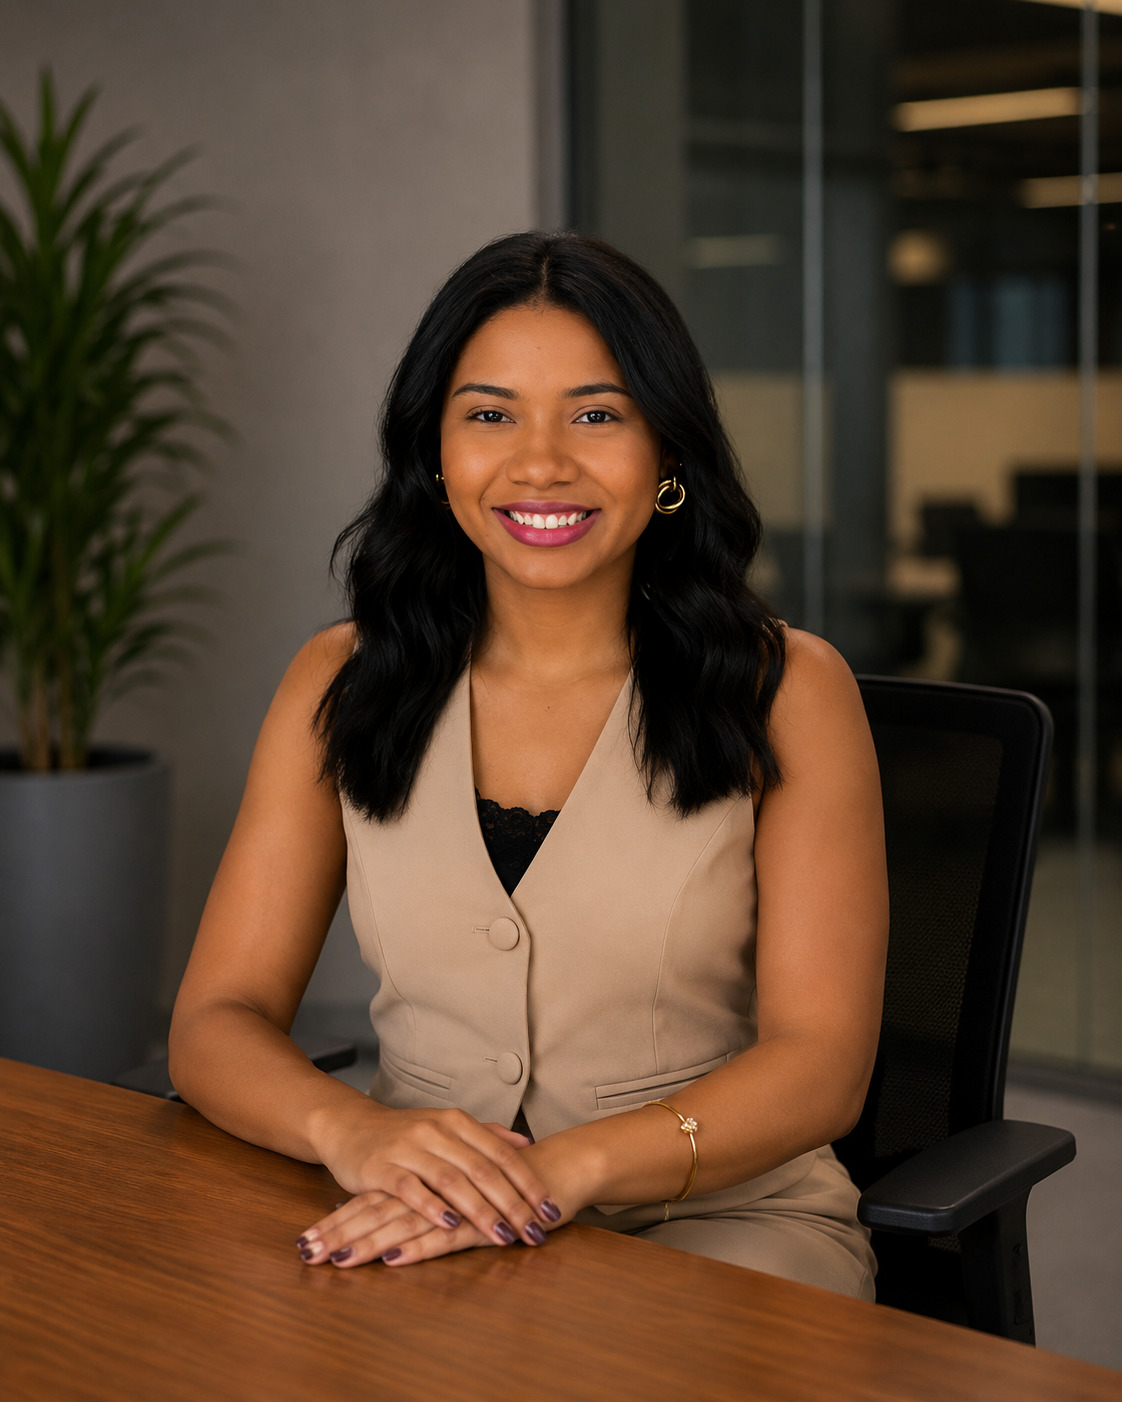
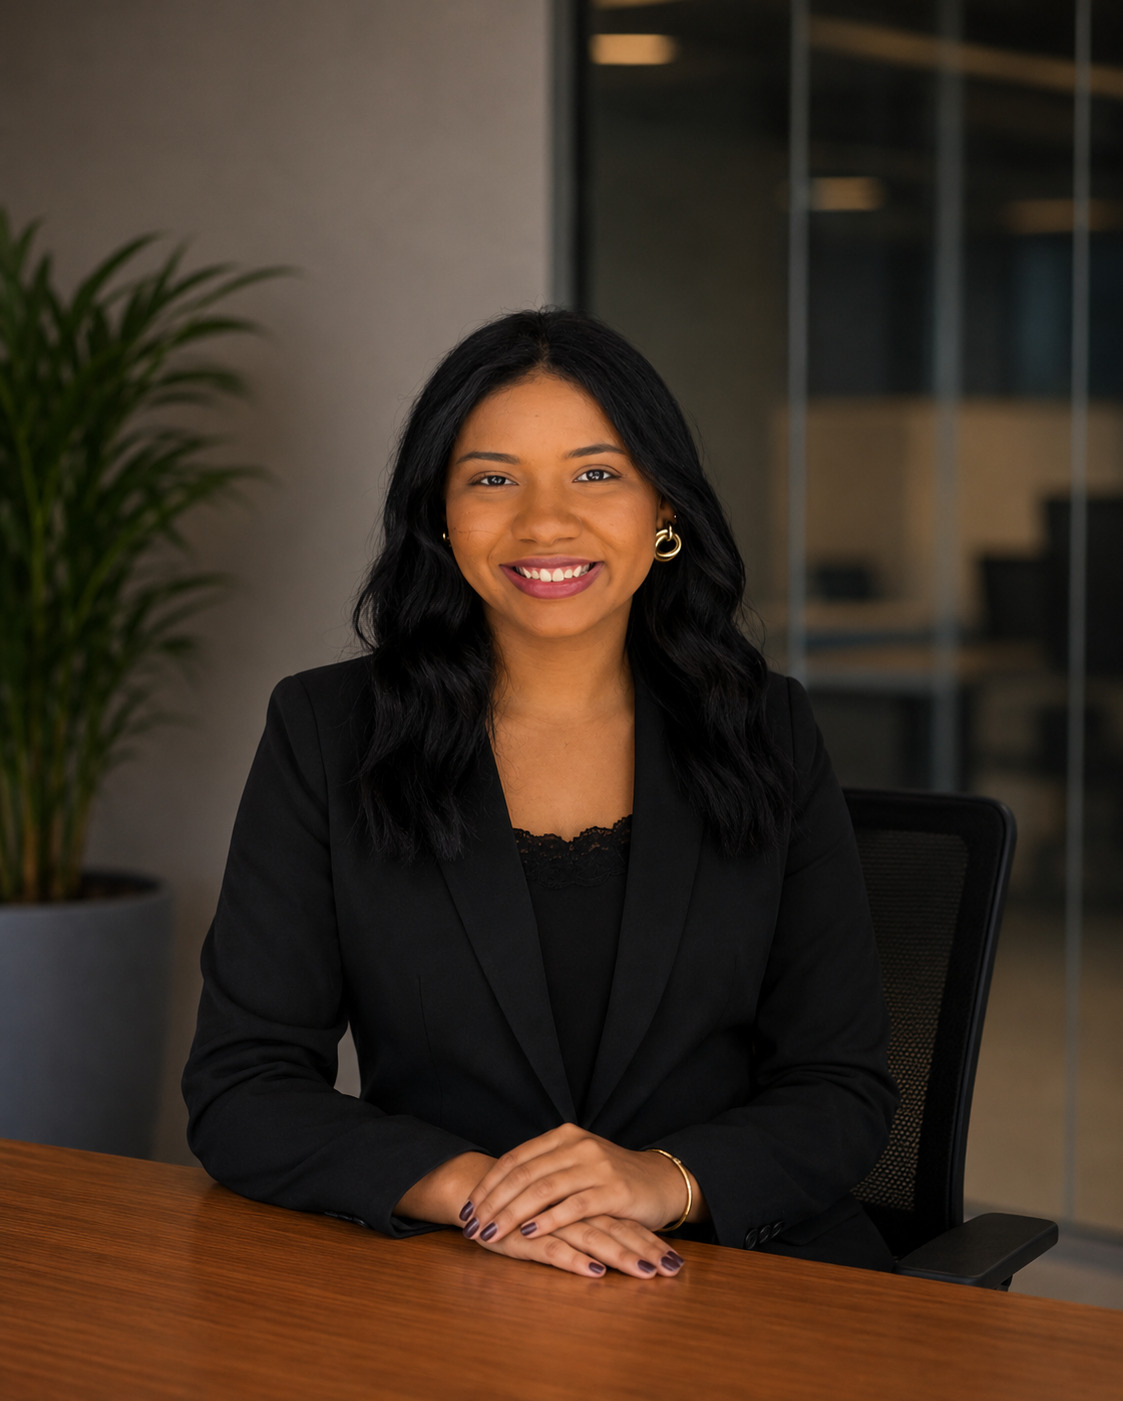
Atualização foto de marianny de novooo!

diff --git a/index.html b/index.html
@@ -162,7 +162,7 @@
 
        <!-- Nota Técnica -->
       <div class="mat-card">
-        <div class="mat-icon"><i class="ti ti-file-description"></i></div>
+        <div class="mat-icon">📃</div>
         <h3>NOTA TECNICA ATUARIAL</h3>
         <p>Documento completo com a identificao, objetivo, base de dados, hipoteses e formulas utilizada utilizadas.</p>
         <a href="nota_tecnica.pdf" download class="btn-download">
@@ -172,7 +172,7 @@
 
       <!-- Tábua -->
       <div class="mat-card">
-        <div class="mat-icon"><i class="ti ti-table"></i></div>
+        <div class="mat-icon">📊</div>
         <h3>MULTIVIDA</h3>
         <p>Tabua completa com funçoes de vida conjunta e ultimo sobrevivente.</p>
         <br/>
@@ -183,7 +183,7 @@
 
       <!-- RENDAS E ENCARGOS -->
       <div class="mat-card">
-        <div class="mat-icon"><i class="ti ti-table"></i></div>
+        <div class="mat-icon">📈</div>
         <h3>RENDAS + ENCARGOS</h3>
         <p>Tábua com funções de rendas e anuidades utilizadas.</p>
         <br/>